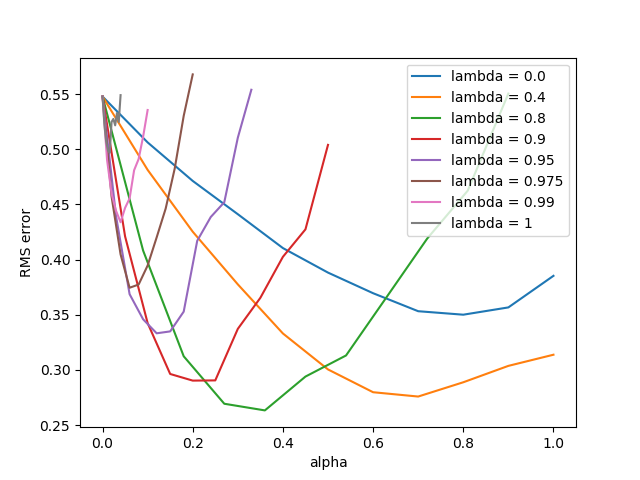
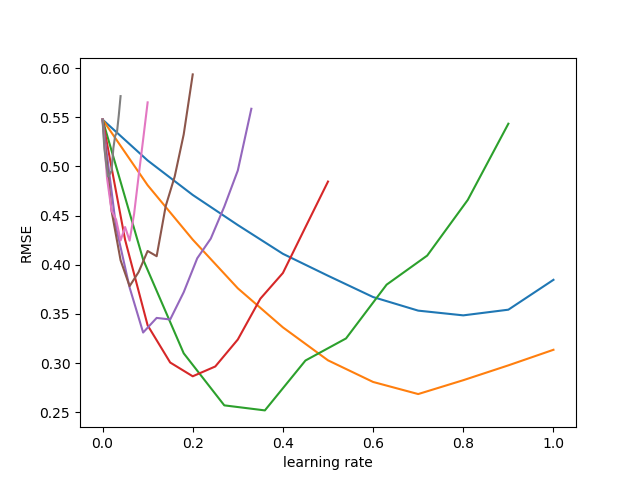
Add conclusion, improve plots, clarify algorithm

diff --git a/poster/poster.tex b/poster/poster.tex
@@ -214,24 +214,24 @@ state-of-the-art algorithms, such as $\text{TD}(\lambda)$. The objective of any
 value estimation algorithm is to minimize the following expression given a set
 of trajectories sampled using a certain policy and a set of hyperparameters:
 $E(\theta) = \frac{1}{2} \sum_{\tau \in T} \sum_{t = 0}^{l_\tau - 1}
-{(R_{s_t^\tau}^\gamma - V_\theta(s_t^\tau))}^2$.
+{(R_{s_t^\tau}^\gamma - \check{V}_\theta(s_t^\tau))}^2$.
 
 \noindent\rule[-5pt]{.9\textwidth}{0.4pt}
 {\footnotesize
 \begin{tabbing}
-    {\bf Given:} A discount factor, $\gamma$ \\*[\smallskipamount]
-    Let $\theta= \boldsymbol{0}$. \\
+    {\bf Given:} A discount factor $\gamma$, set of trajectories $T$, learning rate $\alpha$ \\*[\smallskipamount]
+    Let $\theta \leftarrow \boldsymbol{0}$. (arbitrary $\check{V}$ parameters initialization) \\
     {\bf for} each trajectory $\tau \in T$ {\bf do} \\
-      \qquad \= Store $\phi_0$ in memory \\
-      \> {\bf for} $u = 1$ to $l_\tau$ {\bf do} \\
+      \qquad \= Store $\phi_0$ in memory ($\phi_t$ is feature vector of state in $\tau$ at timestep $t$) \\
+      \> {\bf for} $u = 1$ to $l_\tau$ {\bf do} ($l_\tau$ stands for length of episode $\tau$) \\
       \> \qquad \= Store $\phi_u$ and $R_{u - 1}$ in memory \\
-      \>  \> $\delta = \boldsymbol{0}$ \\
+      \>  \> $\delta \leftarrow \boldsymbol{0}$ \\
       \>  \> {\bf for} $t = 0$ to $u - 1$ {\bf do} \\
-      \>  \> \qquad \= $\boldsymbol{a} = \phi_t - \gamma^{u - t} \phi_u$ \\
-      \>  \>  \> $b = \sum_{i = t}^{u - 1} \gamma^{i - t} R_i$ \\
-      \>  \>  \> $\boldsymbol{\delta} = \boldsymbol{\delta} + w(u - t, l_{\tau} - t)[\boldsymbol{\theta} \cdot \boldsymbol{a} - b] \phi_t$ \\
+      \>  \> \qquad \= $\boldsymbol{a} \leftarrow \phi_t - \gamma^{u - t} \phi_u$ \\
+      \>  \>  \> $b \leftarrow \sum_{i = t}^{u - 1} \gamma^{i - t} R_i$ \\
+      \>  \>  \> $\boldsymbol{\delta} \leftarrow \boldsymbol{\delta} + w(u - t, l_{\tau} - t)[\boldsymbol{\theta} \cdot \boldsymbol{a} - b] \phi_t$ \\
       \>  \> {\bf end for} \\
-      \>  \> $\boldsymbol{\theta} = \boldsymbol{\theta} - \alpha \boldsymbol{\delta}$ \\
+      \>  \> $\boldsymbol{\theta} \leftarrow \boldsymbol{\theta} - \alpha \boldsymbol{\delta}$ (perform semi-gradient parameter update) \\
       \> {\bf end for} \\
       \> Discard all $\phi$ and $R$ from memory \\
     {\bf end for}
@@ -280,9 +280,9 @@ fairly easy and obtain true values for each state given a specific policy.
 \begin{center}
 \begin{figure}%
     \centering
-    \subfloat[$\text{TD}({\lambda})$]{{\includegraphics[width=0.46\textwidth]{figures/random-walk-td-lambda.png}}}
+    \subfloat[$\text{TD}({\lambda})$ for different settings of $\lambda$]{{\includegraphics[width=0.46\textwidth]{figures/random-walk-td-lambda.png}}}
     \qquad
-    \subfloat[$\text{TD}({\gamma})$]{{\includegraphics[width=0.46\textwidth]{figures/random-walk-td-lambda.png}}}
+    \subfloat[$\text{TD}({\gamma})$ for different settings of $\gamma$]{{\includegraphics[width=0.46\textwidth]{figures/random-walk-td-lambda.png}}}
     \caption{Performance comparison}%
     \label{fig:results}%
 \end{figure}
@@ -298,6 +298,18 @@ mentioned advantages which makes it infeasible for continuous tasks.
 \medskip
 \hrule\medskip
 \Head{Conclusion \& Future Work}\\
+
+This project explored a subset of value approximation techniques based on
+Temporal Difference Learning, a key idea in Reinforcement Learning. Throughout a
+series of small-scale experiments, it was shown that a novel $\text{TD}(\gamma)$
+algorithm is able to outperform its commonly used precursor. The author has
+developed a better intuition and gained in-depth understanding of the presented
+problem and hopes to continue the research in this area. Few key improvements
+are yet to be made: $\text{TD}_{\gamma}(C)$ is another algorithm introduced by
+the studied paper, which can be improved by introducing automated ways to choose
+$C$ and reducing the hyperparameter search space. Also, $\text{TD}(\gamma)$ can
+be studied in more challenging settings and environments in order to test its
+feasibility in state-of-the-art tasks.
 
 \medskip
 \hrule\medskip
